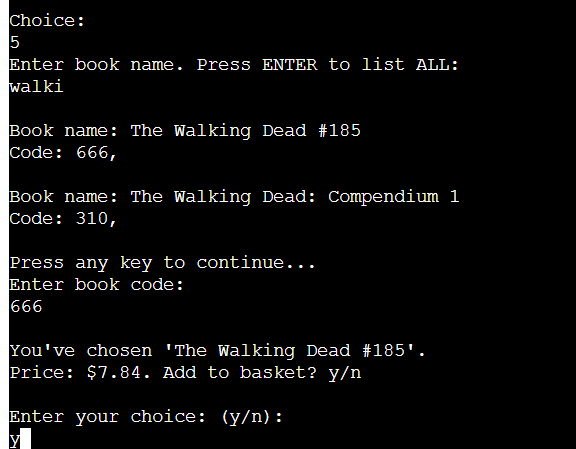
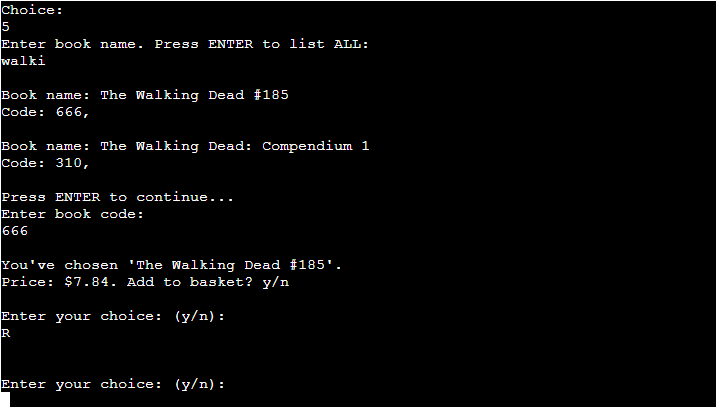
Update readme file - add description for option 5 from menu

Changed region(s): [[0.0, 0.0, 0.7812, 1.0], [0.5625, 0.4128, 0.7812, 0.4717], [0.4688, 0.4128, 0.5312, 0.4717]]

diff --git a/README.md b/README.md
@@ -55,3 +55,9 @@ This option will list books, followed by its publishing date. Like in the other 
 This option will list books, followed by its publishers. Like in the other options, a search can also be made, but this time it will search by the book publisher (partial terms are also accepted).
 
 ![Search by publisher name](https://github.com/thenriq/thenriq-code-institute_project3/blob/main/assets/readme_images/menu_item_4_search.png?raw=true)
+
+5. Buy a book
+
+This option simulates a books store. The customer will start by searching a book name. Then, a result list will be displayed, with the book name and book code. The next step is to enter the book code and press `ENTER`. The book will be located, displaying it's price and asking user if it should be added to his basket. The system will keep asking for a choice (only `y` or `n` is accepted as input), until a valid option is chosen
+
+![Search a book](https://github.com/thenriq/thenriq-code-institute_project3/blob/main/assets/readme_images/menu_item_5_search_and_buying.png?raw=true)
